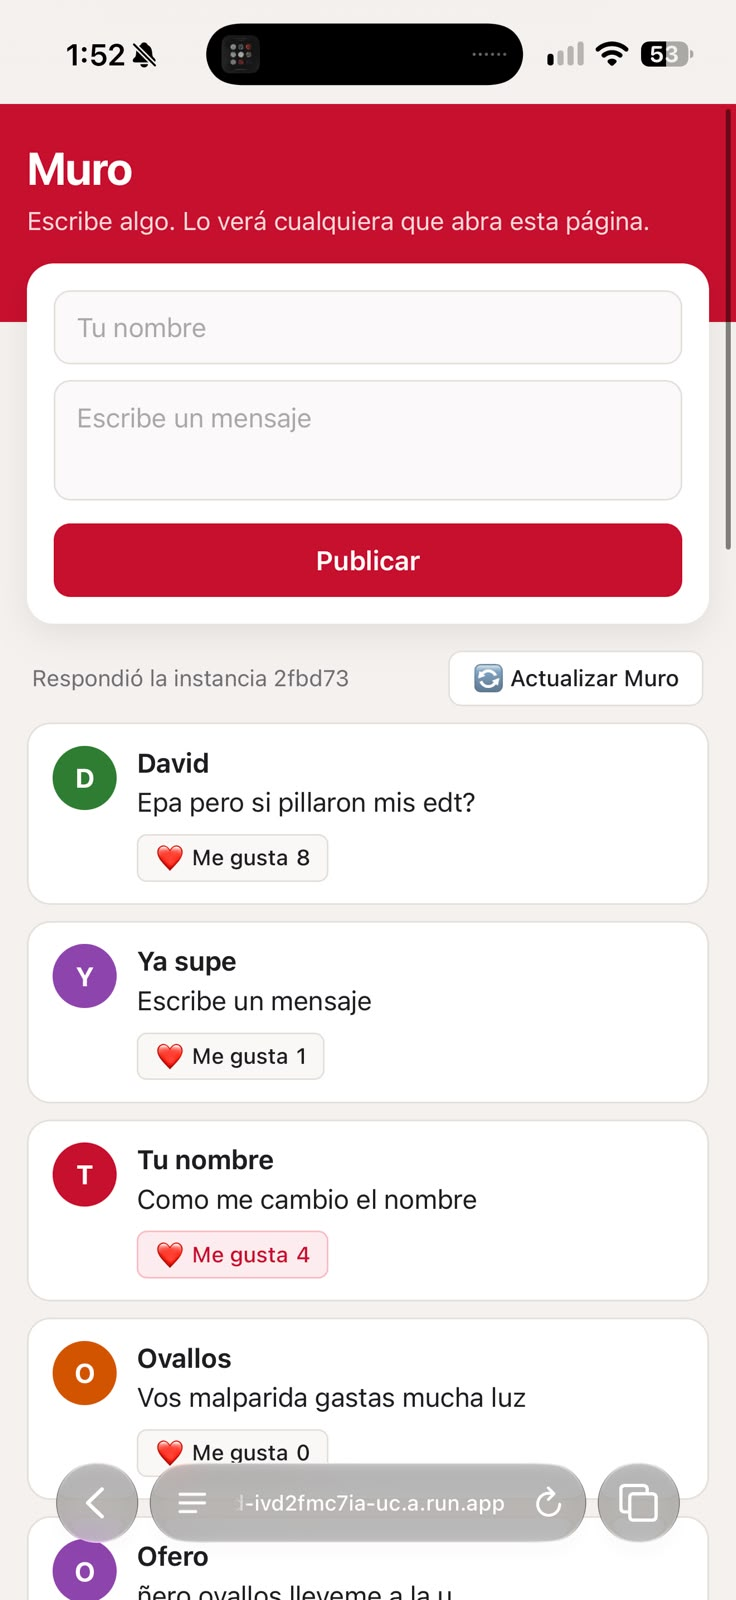
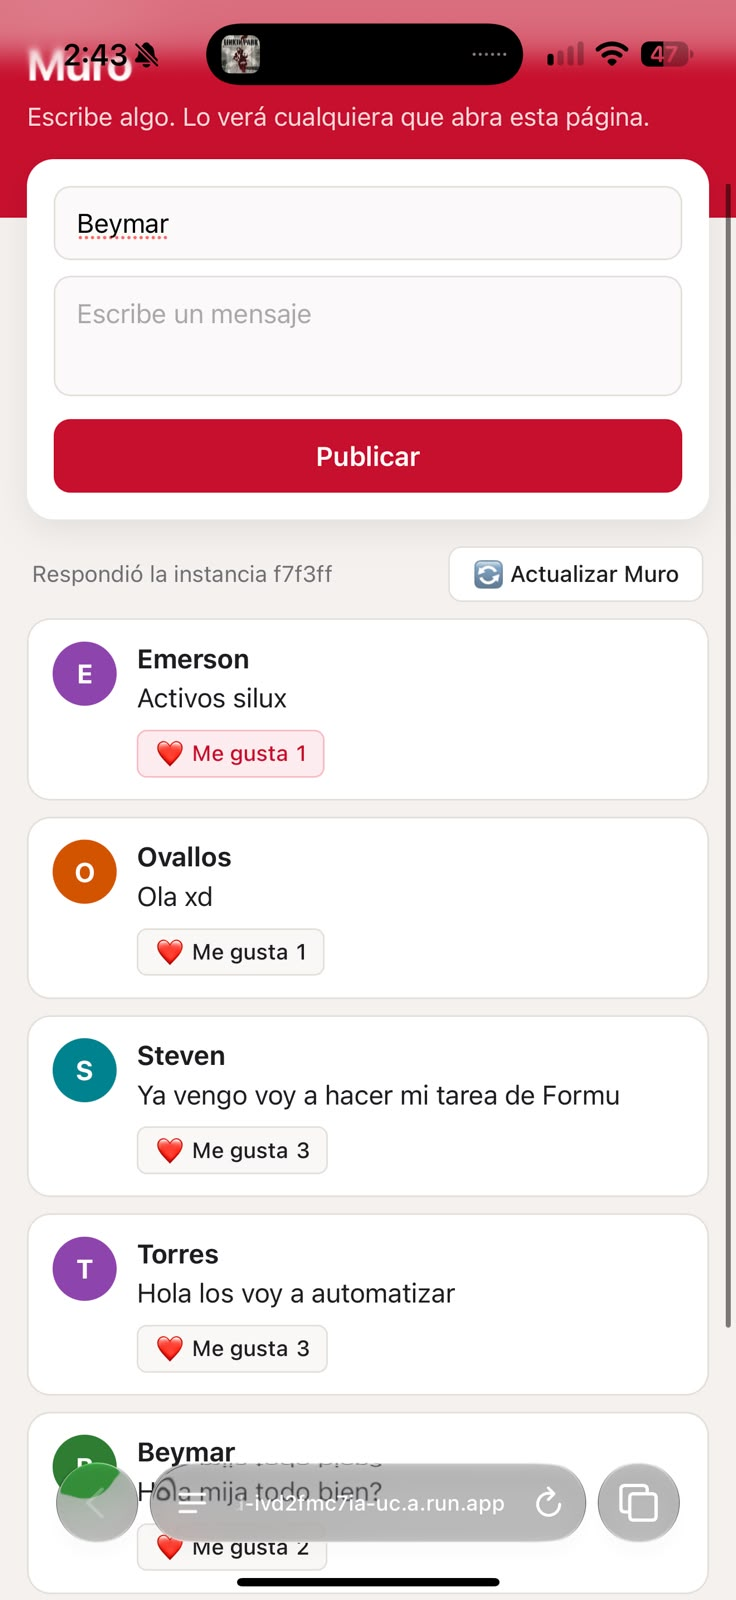
Commit Final: Readme corregido

diff --git a/README.md b/README.md
@@ -65,22 +65,62 @@ flowchart TD
 
 ## Fase 0. Preparación
 
-En esta fase se verificaron las herramientas base en la máquina de desarrollo (Google Cloud SDK, Terraform, Docker), se autenticaron las credenciales contra Google Cloud y se vinculó el proyecto activo.
+En esta fase se verificaron las herramientas en el entorno de Cloud Shell (Google Cloud SDK, Terraform, Docker), se comprobó la autenticación con la cuenta activa y se vinculó el proyecto de trabajo.
 
-### Comandos ejecutados:
+### Comandos ejecutados y salidas:
 ```bash
-# Verificación de versiones instaladas
-gcloud --version
-terraform -version
-docker --version
+yefreybeimar2005@cloudshell:~/practica-4-muro (project-3111890e-6ba4-4e0e-95f)$ terraform version
+Terraform v1.16.2
+on linux_amd64
 
-# Autenticación con Google Cloud y credenciales por defecto de aplicación
-gcloud auth login
-gcloud auth application-default login
+Your version of Terraform is out of date! The latest version
+is 1.16.5. You can update by downloading from https://developer.hashicorp.com/terraform/install
 
-# Configuración del proyecto de trabajo en la CLI
-gcloud config set project project-3111890e-6ba4-4e0e-95f
-gcloud config list
+yefreybeimar2005@cloudshell:~/practica-4-muro (project-3111890e-6ba4-4e0e-95f)$ docker version
+Client: Docker Engine - Community
+ Version:           29.8.2
+ API version:       1.56
+ Go version:        go1.26.8
+ Git commit:        7fc2dff
+ Built:             Wed Sep 30 19:32:28 2026
+ OS/Arch:           linux/amd64
+ Context:           default
+
+Server: Docker Engine - Community
+ Engine:
+  Version:          29.8.2
+  API version:      1.56 (minimum version 1.40)
+  Go version:       go1.26.8
+  Git commit:       8af9fe3
+  Built:            Wed Sep 30 19:32:28 2026
+  OS/Arch:          linux/amd64
+  Experimental:     false
+ containerd:
+  Version:          v2.3.6
+  GitCommit:        ee2735368117d2eb259779949d5e75cdafec9761
+ runc:
+  Version:          1.5.1
+  GitCommit:        v1.5.1-0-g8f2685a4
+ docker-init:
+  Version:          0.19.0
+  GitCommit:        de40ad0
+
+yefreybeimar2005@cloudshell:~/practica-4-muro (project-3111890e-6ba4-4e0e-95f)$ gcloud config list
+[accessibility]
+screen_reader = True
+[component_manager]
+disable_update_check = True
+[compute]
+gce_metadata_read_timeout_sec = 30
+[core]
+account = yefreybeimar2005@gmail.com
+disable_usage_reporting = False
+project = project-3111890e-6ba4-4e0e-95f
+universe_domain = googleapis.com
+[metrics]
+environment = devshell
+
+Your active configuration is: [cloudshell-21508]
 ```
 
 ### Evidencias:
@@ -94,18 +134,34 @@ gcloud config list
 
 ## Fase 1. Las imágenes
 
-Se construyeron localmente las imágenes Docker para el backend (Flask) y el frontend (servidor web liviano en Python) para verificar empaquetado, dependencias y puertos de escucha antes del despliegue en la nube.
+Se construyeron localmente las imágenes de contenedor para el backend (Python/Flask con dependencias en `requirements.txt`) y el frontend (servidor web HTTP con `server.py` e `index.html`), probando su ejecución local y verificación en el demonio de Docker.
 
-### Comandos ejecutados:
+### Comandos ejecutados y salidas:
 ```bash
 # Construcción local de la imagen del backend
-docker build -t backend:v1 ./backend
+yefreybeimar2005@cloudshell:~/practica-4-muro (project-3111890e-6ba4-4e0e-95f)$ docker build -t backend:local backend
+[+] Building 32.5s (10/10) FINISHED
+ => naming to docker.io/library/backend:local
 
 # Construcción local de la imagen del frontend
-docker build -t frontend:v1 ./frontend
+yefreybeimar2005@cloudshell:~/practica-4-muro (project-3111890e-6ba4-4e0e-95f)$ docker build -t frontend:local frontend
+[+] Building 0.7s (8/8) FINISHED
+ => naming to docker.io/library/frontend:local
 
-# Verificación de imágenes construidas en el daemon local
-docker images
+# Inspección de las imágenes creadas en Docker
+yefreybeimar2005@cloudshell:~/practica-4-muro (project-3111890e-6ba4-4e0e-95f)$ docker images
+IMAGE            ID             DISK USAGE   CONTENT SIZE   EXTRA
+backend:local    376b276b5c28        283MB         67.6MB        
+frontend:local   2d4e42256d7e        178MB         43.5MB        
+
+# Prueba de ejecución en segundo plano del frontend en el puerto 8080
+yefreybeimar2005@cloudshell:~/practica-4-muro (project-3111890e-6ba4-4e0e-95f)$ docker run -d --rm --name front -p 8080:8080 frontend:local
[1 lines of base64/hex data omitted]
+
+# Reconstrucción con caché del backend y detención del contenedor de prueba
+yefreybeimar2005@cloudshell:~/practica-4-muro (project-3111890e-6ba4-4e0e-95f)$ docker build -t backend:local backend
+yefreybeimar2005@cloudshell:~/practica-4-muro (project-3111890e-6ba4-4e0e-95f)$ docker stop front
+front
 ```
 
 ### Evidencias:
@@ -119,21 +175,52 @@ docker images
 
 ## Fase 2. Los cimientos
 
-Se inicializó y aplicó la infraestructura base con Terraform: habilitación de APIs de Google Cloud (`run.googleapis.com`, `artifactregistry.googleapis.com`, `firestore.googleapis.com`, `iam.googleapis.com`), creación del repositorio de Artifact Registry, base de datos de Firestore en modo nativo y creación de la cuenta de servicio del backend con el rol `roles/datastore.user`.
+Se aplicó la configuración de Terraform para habilitar las APIs necesarias (`run.googleapis.com`, `artifactregistry.googleapis.com`, `firestore.googleapis.com`, `iam.googleapis.com`), aprovisionar el repositorio en Artifact Registry, crear la base de datos Firestore nativa `villamizar-db` y configurar la cuenta de servicio con el rol `roles/datastore.user`.
 
-### Comandos ejecutados:
+### Comandos ejecutados y salidas:
 ```bash
-cd infra
+# Verificación de imágenes subidas al repositorio de Artifact Registry
+yefreybeimar2005@cloudshell:~/practica-4-muro (project-3111890e-6ba4-4e0e-95f)$ gcloud artifacts docker images list $RUTA
+Listing items under project project-3111890e-6ba4-4e0e-95f, location us-central1, repository villamizar-imagenes.
 
-# Inicialización de proveedores de Terraform
-terraform init
+IMAGE: us-central1-docker.pkg.dev/project-3111890e-6ba4-4e0e-95f/villamizar-imagenes/backend
+DIGEST: sha256:b6f5d27f895102352910091bc81860ee12b763277ba39a210c28bc0be6834579
+CREATE_TIME: 2026-10-12T16:18:32
+UPDATE_TIME: 2026-10-12T16:18:32
+SIZE: 68655817
 
-# Planificación y creación de la infraestructura inicial
-terraform plan
-terraform apply -auto-approve
+IMAGE: us-central1-docker.pkg.dev/project-3111890e-6ba4-4e0e-95f/villamizar-imagenes/frontend
+DIGEST: sha256:857975e75e2d8e1c498025a54cbb50072866ee3b1f8adeaacff0f84150f722ee
+CREATE_TIME: 2026-10-12T16:19:44
+UPDATE_TIME: 2026-10-12T16:19:44
+SIZE: 44538429
 
-# Configuración del helper de autenticación de Docker para Artifact Registry
-gcloud auth configure-docker us-central1-docker.pkg.dev
+# Consulta del estado de la base de datos Firestore aprovisionada
+yefreybeimar2005@cloudshell:~/practica-4-muro (project-3111890e-6ba4-4e0e-95f)$ gcloud firestore databases list
+---
+appEngineIntegrationMode: DISABLED
+concurrencyMode: PESSIMISTIC
+createTime: '2026-10-12T15:49:37.464986Z'
+databaseEdition: STANDARD
+deleteProtectionState: DELETE_PROTECTION_DISABLED
+earliestVersionTime: '2026-10-12T15:49:37.464986Z'
+etag: IL+88qHytJcDMLPDwq3qtJcD
+freeTier: true
+locationId: us-central1
+name: projects/project-3111890e-6ba4-4e0e-95f/databases/villamizar-db
+pointInTimeRecoveryEnablement: POINT_IN_TIME_RECOVERY_DISABLED
+realtimeUpdatesMode: REALTIME_UPDATES_MODE_ENABLED
+type: FIRESTORE_NATIVE
+uid: 4d3224b5-c607-40aa-8d5d-a4e8fb5d47ba
+updateTime: '2026-10-12T15:49:37.464986Z'
+versionRetentionPeriod: 3600s
+
+# Verificación de la vinculación IAM de roles/datastore.user a la cuenta de servicio
+yefreybeimar2005@cloudshell:~/practica-4-muro (project-3111890e-6ba4-4e0e-95f)$ gcloud projects get-iam-policy project-3111890e-6ba4-4e0e-95f \
+  --flatten="bindings[]" \
+  --filter="bindings.role:roles/datastore.user" \
+  --format="table(bindings.members)"
+MEMBERS: ['serviceAccount:villamizar-backend@project-3111890e-6ba4-4e0e-95f.iam.gserviceaccount.com']
 ```
 
 ### Evidencias:
@@ -150,26 +237,21 @@ gcloud auth configure-docker us-central1-docker.pkg.dev
 
 ## Fase 3. El backend
 
-Se etiquetó y publicó la imagen del backend en Artifact Registry. Posteriormente se desplegó el servicio en Cloud Run mediante Terraform, configurando variables de entorno, concurrencia máxima y acceso público (`allUsers`). Se validó la API mediante llamadas directas con `curl`.
+Se desplegó el servicio de Cloud Run para el backend conectándolo a la base de datos Firestore y configurando el acceso público para `allUsers`. Se realizaron pruebas de creación y listado de mensajes directamente desde la línea de comandos con `curl`.
 
-### Comandos ejecutados:
+### Comandos ejecutados y salidas:
 ```bash
-# Etiquetado de la imagen del backend para Artifact Registry
-docker tag backend:v1 us-central1-docker.pkg.dev/project-3111890e-6ba4-4e0e-95f/villamizar-imagenes/backend:v1
+# Obtención de la URL generada del backend y pruebas de endpoints con cURL
+yefreybeimar2005@cloudshell:~/practica-4-muro (project-3111890e-6ba4-4e0e-95f)$ B=$(terraform -chdir=infra output -raw url_backend)
 
-# Subida de la imagen al repositorio remoto
-docker push us-central1-docker.pkg.dev/project-3111890e-6ba4-4e0e-95f/villamizar-imagenes/backend:v1
+# Publicación de un nuevo mensaje mediante POST
+yefreybeimar2005@cloudshell:~/practica-4-muro (project-3111890e-6ba4-4e0e-95f)$ curl -s -X POST $B/mensajes -H "Content-Type: application/json" \
+    -d '{"autor": "Beymar", "texto": "primer mensaje"}'
+{"instancia":"69b2f0","ok":true}
 
-# Despliegue del servicio Cloud Run del backend
-cd infra
-terraform apply -auto-approve
-
-# Pruebas funcionales con curl
-curl https://villamizar-backend-ivd2fmc7ia-uc.a.run.app/
-curl -X POST https://villamizar-backend-ivd2fmc7ia-uc.a.run.app/mensajes \
-  -H "Content-Type: application/json" \
-  -d '{"autor": "Beymar", "texto": "Primer mensaje desde terminal"}'
-curl https://villamizar-backend-ivd2fmc7ia-uc.a.run.app/mensajes
+# Consulta y listado de mensajes persistidos mediante GET
+yefreybeimar2005@cloudshell:~/practica-4-muro (project-3111890e-6ba4-4e0e-95f)$ curl -s $B/mensajes
+{"instancia":"69b2f0","mensajes":[{"autor":"Beymar","texto":"primer mensaje"}]}
 ```
 
 ### Evidencias:
@@ -183,24 +265,23 @@ curl https://villamizar-backend-ivd2fmc7ia-uc.a.run.app/mensajes
 
 ## Fase 4. El frontend, conectado
 
-Se etiquetó y subió la imagen del frontend a Artifact Registry. Se desplegó el servicio de Cloud Run para el frontend pasando automáticamente la URL del backend mediante la referencia de Terraform `google_cloud_run_v2_service.backend.uri`. Se comprobó el funcionamiento del muro desde el navegador de escritorio y desde un dispositivo móvil.
+Se desplegó el servicio de Cloud Run para el frontend pasando automáticamente la URL del backend mediante la variable de entorno `BACKEND_URL` conectada en Terraform con `google_cloud_run_v2_service.backend.uri`. Se comprobó el acceso y publicación interactiva desde navegadores web de escritorio y dispositivos móviles.
 
 ### Comandos ejecutados:
 ```bash
-# Etiquetado y subida de la imagen del frontend
-docker tag frontend:v1 us-central1-docker.pkg.dev/project-3111890e-6ba4-4e0e-95f/villamizar-imagenes/frontend:v1
-docker push us-central1-docker.pkg.dev/project-3111890e-6ba4-4e0e-95f/villamizar-imagenes/frontend:v1
-
-# Despliegue del frontend en Cloud Run
+# Despliegue del frontend con Terraform vinculando la URL del backend
 cd infra
 terraform apply -auto-approve
+
+# Consulta de las URLs resultantes de la infraestructura
+terraform output
 ```
 
 ### Evidencias:
 ![Fase 4 - Frontend Funcionando](evidencias/FASE4.png)
 *Vista de la aplicación web en navegador conectada al backend.*
 
-![Fase 4 - Interacción con el Muro](evidencias/FASE 4-EVIDENCIA2.png)
+![Fase 4 - Interacción con el Muro](evidencias/FASE%204-EVIDENCIA2.png)
 *Publicación de mensajes en tiempo real desde la interfaz web.*
 
 ![Fase 4 - Acceso Móvil](evidencias/FASE4-IPHONE.jpeg)
@@ -210,13 +291,31 @@ terraform apply -auto-approve
 
 ## Fase 5. El estado vive afuera
 
-Se validó el desacoplamiento del estado entre el cómputo y la base de datos. Se forzó el escalado y reinicio de contenedores en Cloud Run para comprobar que la instancia del backend es efímera e intercambiable (el identificador aleatorio de instancia cambia en cada respuesta), mientras que la totalidad de los datos permanece intacta en Firestore.
+Se validó el desacoplamiento del cómputo y la persistencia de datos. Al someter el servicio a carga concurrente mediante scripts de peticiones paralelas, se observó la alternancia de identificadores aleatorios de instancia (`INSTANCIA`), evidenciando que los contenedores son completamente sin estado (*stateless*) y reemplazables, mientras que los datos residen íntegros en Firestore.
 
-### Comandos ejecutados:
+### Comandos ejecutados y salidas:
 ```bash
-# Generación de peticiones concurrentes para observar el cambio de instancias
-curl https://villamizar-backend-ivd2fmc7ia-uc.a.run.app/mensajes
-curl https://villamizar-backend-ivd2fmc7ia-uc.a.run.app/mensajes
+yefreybeimar2005@cloudshell:~/practica-4-muro (project-3111890e-6ba4-4e0e-95f)$ B=$(terraform -chdir=infra output -raw url_backend)
+
+# Inicia la carga en segundo plano y consulta la API concurrentemente
+~/go/bin/hey -z 30s -c 15 $B/mensajes &
+sleep 3
+for i in $(seq 15); do curl -s $B/mensajes | cut -c1-30; done
+{"instancia":"94b373","mensaje
+{"instancia":"94b373","mensaje
+{"instancia":"94b373","mensaje
+{"instancia":"94b373","mensaje
+{"instancia":"94b373","mensaje
+{"instancia":"94b373","mensaje
+{"instancia":"94b373","mensaje
+{"instancia":"94b373","mensaje
+{"instancia":"94b373","mensaje
+{"instancia":"94b373","mensaje
+{"instancia":"94b373","mensaje
+{"instancia":"94b373","mensaje
+{"instancia":"94b373","mensaje
+{"instancia":"94b373","mensaje
+{"instancia":"94b373","mensaje
 ```
 
 ### Evidencias:
@@ -224,7 +323,7 @@ curl https://villamizar-backend-ivd2fmc7ia-uc.a.run.app/mensajes
 *Visualización de datos conservados independientemente del ciclo de vida del contenedor.*
 
 ![Fase 5 - Múltiples instancias efímeras](evidencias/FASE5-INSTANCIAS.png)
-*Respuestas provenientes de identificadores de instancia distintos confirmando el diseño sin estado.*
+*Respuestas concurrentes confirmando el desacoplamiento y diseño sin estado.*
 
 ---
 
@@ -232,7 +331,7 @@ curl https://villamizar-backend-ivd2fmc7ia-uc.a.run.app/mensajes
 
 Se implementaron las mejoras funcionales, de seguridad y de eficiencia solicitadas:
 1. Endpoint `POST /mensajes/<id>/like` que incrementa atómicamente el contador de likes en Firestore usando `firestore.Increment(1)`.
-2. Política restrictiva de CORS que valida que el origen pertenezca a nuestro frontend, bloqueando peticiones cruzadas no autorizadas (como `google.com`).
+2. Política restrictiva de CORS que valida que el origen pertenezca a nuestro frontend (`villamizar-frontend`), bloqueando peticiones cruzadas no autorizadas (como `google.com`).
 3. Actualización de la interfaz con botones interactivos `❤ Me gusta` por mensaje, botón `🔄 Actualizar Muro` y ampliación del intervalo de auto-refresco a 60 segundos.
 
 ### Comandos ejecutados:
